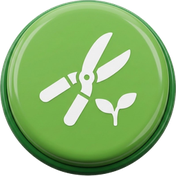
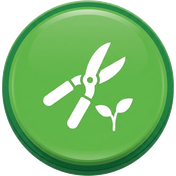
Green palette and a 3D mascot, after the reference Luuk picked
Colour: the accent is a grass green now, not terracotta. Luuk's reference is
green throughout, so terracotta steps back to being the mascot's pot and the
warm note in the art (AppColors.clayWarm). Two greens do the work the reference
does with one: `accent` #2A7F2A is text-safe, white on it clears 4.5:1, and
`accentBright` #4CC23F carries the vividness wherever nothing is read on top of
it. `forest` is the dark ground the reference uses for its banners, and the
canvas and sky warm toward the leaf.

The trade this makes: green now doubles as the positive semantic, which the base
warns about. The guard is that a verdict never renders as a bare green fill, it
keeps its icon and its label.

Mascot: regenerated as a glossy 3D character, all twelve poses against one
reference render so the character holds, cut out to transparent PNGs so it
stands free rather than sitting in a tile. Node badges regenerated in the same
green. Used the way the reference uses its own: greeting the gardener from the
home band, and carrying the empty states and the mascot lines as before.

Home band follows the reference too: a light lime ground with dark type rather
than a dark banner, white cards over it, the wordmark small above the hello.

Copy: the weather hints lost their dashes, which base 11 bans anyway, and read
short enough to leave a task row's title its full width.

diff --git a/lib/features/home/home_screen.dart b/lib/features/home/home_screen.dart
@@ -210,38 +210,78 @@ class _HomeBand extends StatelessWidget {
   @override
   Widget build(BuildContext context) {
     final top = MediaQuery.paddingOf(context).top;
-    // The band carries chrome on the accent, so the status bar runs light.
+    // The band is light, so the status bar runs dark.
     return AnnotatedRegion<SystemUiOverlayStyle>(
-      value: SystemUiOverlayStyle.light,
+      value: SystemUiOverlayStyle.dark,
       child: Container(
       padding: EdgeInsets.fromLTRB(20, top + 12, 20, 20),
       decoration: const BoxDecoration(
         gradient: LinearGradient(
           begin: Alignment.topCenter,
           end: Alignment.bottomCenter,
-          // Accent holding under the chrome, then bleeding into canvas (base 3.5).
-          colors: [AppColors.accent, AppColors.accent, AppColors.canvas],
-          stops: [0, 0.62, 1],
+          // The reference's light lime ground, fading into canvas (base 3.5).
+          colors: [AppColors.skyTop, AppColors.skyMid, AppColors.canvas],
+          stops: [0, 0.55, 1],
         ),
       ),
       child: Column(
         crossAxisAlignment: CrossAxisAlignment.start,
         children: [
           Row(
+            crossAxisAlignment: CrossAxisAlignment.start,
             children: [
-              Text('Cropsy',
-                  style: AppText.title(context, color: AppColors.onAccent)),
-              const Spacer(),
+              Expanded(
+                child: Column(
+                  crossAxisAlignment: CrossAxisAlignment.start,
+                  mainAxisSize: MainAxisSize.min,
+                  children: [
+                    Text('Cropsy', style: AppText.kicker(context, color: AppColors.accentDeep)),
+                    const _Greeting(),
+                  ],
+                ),
+              ),
+              const SizedBox(width: 8),
+              // The mascot greets from the band, the way the reference puts its
+              // character beside the hello (PRD §6: it is the voice of the app).
+              const Mascot(MascotPose.wave, size: 84),
+              const SizedBox(width: 4),
               const _ProfileButton(),
             ],
           ),
-          const SizedBox(height: 12),
+          const SizedBox(height: 4),
           _RegionChip(region: region),
           const SizedBox(height: 16),
           _SearchField(onChanged: onSearch),
         ],
       ),
       ),
+    );
+  }
+}
+
+/// "Hey, `name`" if we know it, the plain hello if we do not.
+class _Greeting extends StatelessWidget {
+  const _Greeting();
+
+  @override
+  Widget build(BuildContext context) {
+    final repo = RepositoryScope.of(context);
+    return FutureBuilder<ProfileRow?>(
+      future: repo.profile(),
+      builder: (context, snap) {
+        final name = snap.data?.displayName;
+        return Column(
+          crossAxisAlignment: CrossAxisAlignment.start,
+          mainAxisSize: MainAxisSize.min,
+          children: [
+            Text(name == null ? 'Hey there' : 'Hey, $name',
+                style: AppText.title(context),
+                maxLines: 1,
+                overflow: TextOverflow.ellipsis),
+            Text('Here is your garden this week.', style: AppText.caption(context)),
+          ],
+        );
+      },
     );
   }
 }
@@ -263,7 +303,7 @@ class _RegionChip extends StatelessWidget {
             // hotter than the ground it sits on.
             saturation: 1.05,
             tint: AppColors.surface,
-            tintOpacity: 0.22,
+            tintOpacity: 0.6,
             shadowed: false,
             padding: const EdgeInsets.symmetric(horizontal: 14),
             child: SizedBox(
@@ -271,17 +311,17 @@ class _RegionChip extends StatelessWidget {
               child: Row(
                 mainAxisSize: MainAxisSize.min,
                 children: [
-                  const Icon(Icons.location_on, size: 18, color: AppColors.onAccent),
+                  const Icon(Icons.location_on, size: 18, color: AppColors.accent),
                   const SizedBox(width: 6),
                   ConstrainedBox(
                     constraints: const BoxConstraints(maxWidth: 220),
                     child: Text(region,
-                        style: AppText.label(context, color: AppColors.onAccent),
+                        style: AppText.label(context, color: AppColors.ink),
                         maxLines: 1,
                         overflow: TextOverflow.ellipsis),
                   ),
                   const SizedBox(width: 4),
-                  const Icon(Icons.expand_more, size: 18, color: AppColors.onAccent),
+                  const Icon(Icons.expand_more, size: 18, color: AppColors.inkMuted),
                 ],
               ),
             ),
@@ -509,12 +549,14 @@ class _TodaysCare extends StatelessWidget {
                       Icon(item.completed ? Icons.check_circle : Icons.circle_outlined,
                           color: item.completed ? AppColors.positive : AppColors.hairline),
                       const SizedBox(width: 12),
-                      KindMark(item.kind, size: 36),
+                      KindMark(item.kind, size: 32),
                       const SizedBox(width: 12),
                       Expanded(
                         child: Text('${kindLabel(item.kind)} · ${item.cropName}',
                             style: AppText.label(context,
-                                color: item.completed ? AppColors.inkMuted : AppColors.ink)),
+                                color: item.completed ? AppColors.inkMuted : AppColors.ink),
+                            maxLines: 1,
+                            overflow: TextOverflow.ellipsis),
                       ),
                       if (item.hint != null) WeatherHintBadge(item.hint!),
                     ]),

diff --git a/lib/design/colors.dart b/lib/design/colors.dart
@@ -20,38 +20,53 @@ import 'package:flutter/material.dart';
 
 abstract final class AppColors {
   // ---------------------------------------------------------------- neutrals
-  /// Screen background. Base 3.2 `canvas`.
-  static const canvas = Color(0xFFF1F0EE);
+  /// Screen background. Base 3.2 `canvas`, warmed a touch toward the leaf.
+  static const canvas = Color(0xFFF3F7EE);
 
   /// Cards, sheets, dialogs. Base 3.2 `surface`.
   static const surface = Color(0xFFFFFFFF);
 
   /// Image tiles, grouped row containers, input fills, skeletons.
-  static const tile = Color(0xFFEDECE8);
+  static const tile = Color(0xFFEAF0E4);
 
   /// Borders, dividers, rings. Never on a card: white on canvas is the edge.
   static const hairline = Color(0x1417191C);
 
-  static const ink = Color(0xFF17191C);
-  static const inkMuted = Color(0xFF5C6068);
-  static const inkFaint = Color(0xFF6B6F78);
-  static const inkPlaceholder = Color(0xFF8A8E98);
+  static const ink = Color(0xFF16211A);
+  static const inkMuted = Color(0xFF576055);
+  static const inkFaint = Color(0xFF6A7368);
+  static const inkPlaceholder = Color(0xFF8B958A);
   static const onInk = Color(0xFFFFFFFF);
   static const scrim = Color(0x66101114);
 
   // ------------------------------------------------------------------- brand
-  /// Base 3.3 `accent`. Terracotta, 4.9:1 against white.
-  static const accent = Color(0xFFB4532F);
+  /// Base 3.3 `accent`. Grass green, 5.0:1 against white.
+  static const accent = Color(0xFF2A7F2A);
 
   /// Pressed and deep accents.
-  static const accentDeep = Color(0xFF93401F);
+  static const accentDeep = Color(0xFF1F6420);
   static const onAccent = Color(0xFFFFFFFF);
 
+  /// The reference's vivid green. Fills only, never under text: node buttons,
+  /// the sky gradient, illustration. Fails as a text ground on purpose.
+  static const accentBright = Color(0xFF4CC23F);
+
+  /// The dark ground of the reference: month bars, banners, the splash.
+  static const forest = Color(0xFF15391D);
+
   /// Accent at ~12 percent over canvas. Selected rows, highlight cards.
-  static const accentSoft = Color(0xFFF3E4DC);
+  static const accentSoft = Color(0xFFE2F3D8);
 
   /// Text on [accentSoft], 4.5:1.
-  static const onAccentSoft = Color(0xFF8E3F22);
+  static const onAccentSoft = Color(0xFF22641F);
+
+  /// The path's sky, top to bottom.
+  static const skyTop = Color(0xFFD8F0A8);
+  static const skyMid = Color(0xFFEFF8DE);
+
+  /// Terracotta survives as the mascot's pot and the warm note in art, so it
+  /// keeps a token even though it is no longer the accent.
+  static const clayWarm = Color(0xFFB4532F);
 
   // --------------------------------------------------------------- semantics
   // Fixed across every VisionTech app. Text-safe on canvas and tile.
@@ -74,8 +89,8 @@ abstract final class AppColors {
   // migrate to the token names above. Delete an alias once its callers move.
   static const sprout = accent;
   static const sproutDeep = accentDeep;
-  static const clay = accent;
-  static const clayDeep = accentDeep;
+  static const clay = clayWarm;
+  static const clayDeep = Color(0xFF93401F);
   static const paper = canvas;
   static const sand = tile;
   static const muted = inkMuted;
@@ -93,7 +108,7 @@ abstract final class AppColors {
   static const bandSowIndoor = Color(0xFFBFE0A6);
   static const bandSowOutdoor = Color(0xFF63B36B);
   static const bandPlantOut = Color(0xFF137A4A);
-  static const bandHarvest = accent;
+  static const bandHarvest = clayWarm;
 
   // Difficulty and status map onto the fixed semantics.
   static const easy = positive;

diff --git a/lib/design/mascot.dart b/lib/design/mascot.dart
@@ -1,11 +1,11 @@
-/// The mascot's 12 pose slots (PRD §6) — a terracotta pot with a seedling, one
-/// image per pose under assets/mascot. Screens build against this API, so a
-/// later swap to Rive/Lottie touches only this file.
+/// The mascot's 12 pose slots (PRD §6) — a terracotta pot with a seedling,
+/// rendered as a glossy 3D character, one cut-out image per pose under
+/// assets/mascot. Screens build against this API, so a later swap to Rive or
+/// Lottie touches only this file.
 library;
 
 import 'package:flutter/material.dart';
 
-import 'colors.dart';
 
 enum MascotPose {
   idle,
@@ -44,18 +44,15 @@ class Mascot extends StatelessWidget {
 
   @override
   Widget build(BuildContext context) {
-    // The art is drawn on the canvas grey, so it sits in a circle of the same
-    // value and reads as one shape rather than a pasted square.
-    return ClipOval(
-      child: Container(
-        width: size,
-        height: size,
-        color: AppColors.tile,
-        child: Image.asset(
-          'assets/mascot/${_asset[pose]}.jpg',
-          fit: BoxFit.cover,
-          excludeFromSemantics: true,
-        ),
+    // The art is a cut-out, so it stands free on whatever it is put on rather
+    // than inside a tile of its own.
+    return SizedBox(
+      width: size,
+      height: size,
+      child: Image.asset(
+        'assets/mascot/${_asset[pose]}.png',
+        fit: BoxFit.contain,
+        excludeFromSemantics: true,
       ),
     );
   }

diff --git a/lib/features/season/season_screen.dart b/lib/features/season/season_screen.dart
@@ -251,8 +251,8 @@ class _Sky extends StatelessWidget {
           gradient: LinearGradient(
             begin: Alignment.topCenter,
             end: Alignment.bottomCenter,
-            colors: [AppColors.canvas, Color(0xFFF6EFE9), Color(0xFFEDF2E4)],
-            stops: [0, 0.55, 1],
+            colors: [AppColors.skyTop, AppColors.skyMid, AppColors.canvas],
+            stops: [0, 0.45, 1],
           ),
         ),
       );
@@ -286,7 +286,7 @@ class _HeaderItem implements _Item {
         child: Container(
           padding: const EdgeInsets.symmetric(horizontal: 18, vertical: 12),
           decoration: BoxDecoration(
-            color: current ? AppColors.accent : AppColors.ink,
+            color: current ? AppColors.accent : AppColors.forest,
             borderRadius: BorderRadius.circular(20),
           ),
           child: Row(

diff --git a/lib/design/components.dart b/lib/design/components.dart
@@ -244,9 +244,9 @@ class WeatherHintBadge extends StatelessWidget {
   @override
   Widget build(BuildContext context) {
     final (color, icon, text) = switch (adjustment.action) {
-      AdjustAction.skip => (AppColors.rain, Icons.water_drop, 'Skip — enough rain'),
-      AdjustAction.bringForward => (AppColors.heat, Icons.wb_sunny, 'Water earlier — heat'),
-      AdjustAction.defer => (AppColors.frost, Icons.ac_unit, 'Hold — soil too cold'),
+      AdjustAction.skip => (AppColors.rain, Icons.water_drop, 'Enough rain'),
+      AdjustAction.bringForward => (AppColors.heat, Icons.wb_sunny, 'Heat coming'),
+      AdjustAction.defer => (AppColors.frost, Icons.ac_unit, 'Soil too cold'),
       AdjustAction.none => (AppColors.muted, Icons.info_outline, ''),
     };
     return Pill(

diff --git a/lib/features/profile/profile_screen.dart b/lib/features/profile/profile_screen.dart
@@ -343,9 +343,12 @@ class ProfileAvatar extends StatelessWidget {
       width: size,
       height: size,
       alignment: Alignment.center,
-      decoration: const BoxDecoration(
+      decoration: BoxDecoration(
         color: AppColors.accentSoft,
         shape: BoxShape.circle,
+        // A white ring, so the avatar reads on the home band's lime as well as
+        // on a white card.
+        border: Border.all(color: AppColors.surface, width: 2),
       ),
       child: Text(
         initial,
